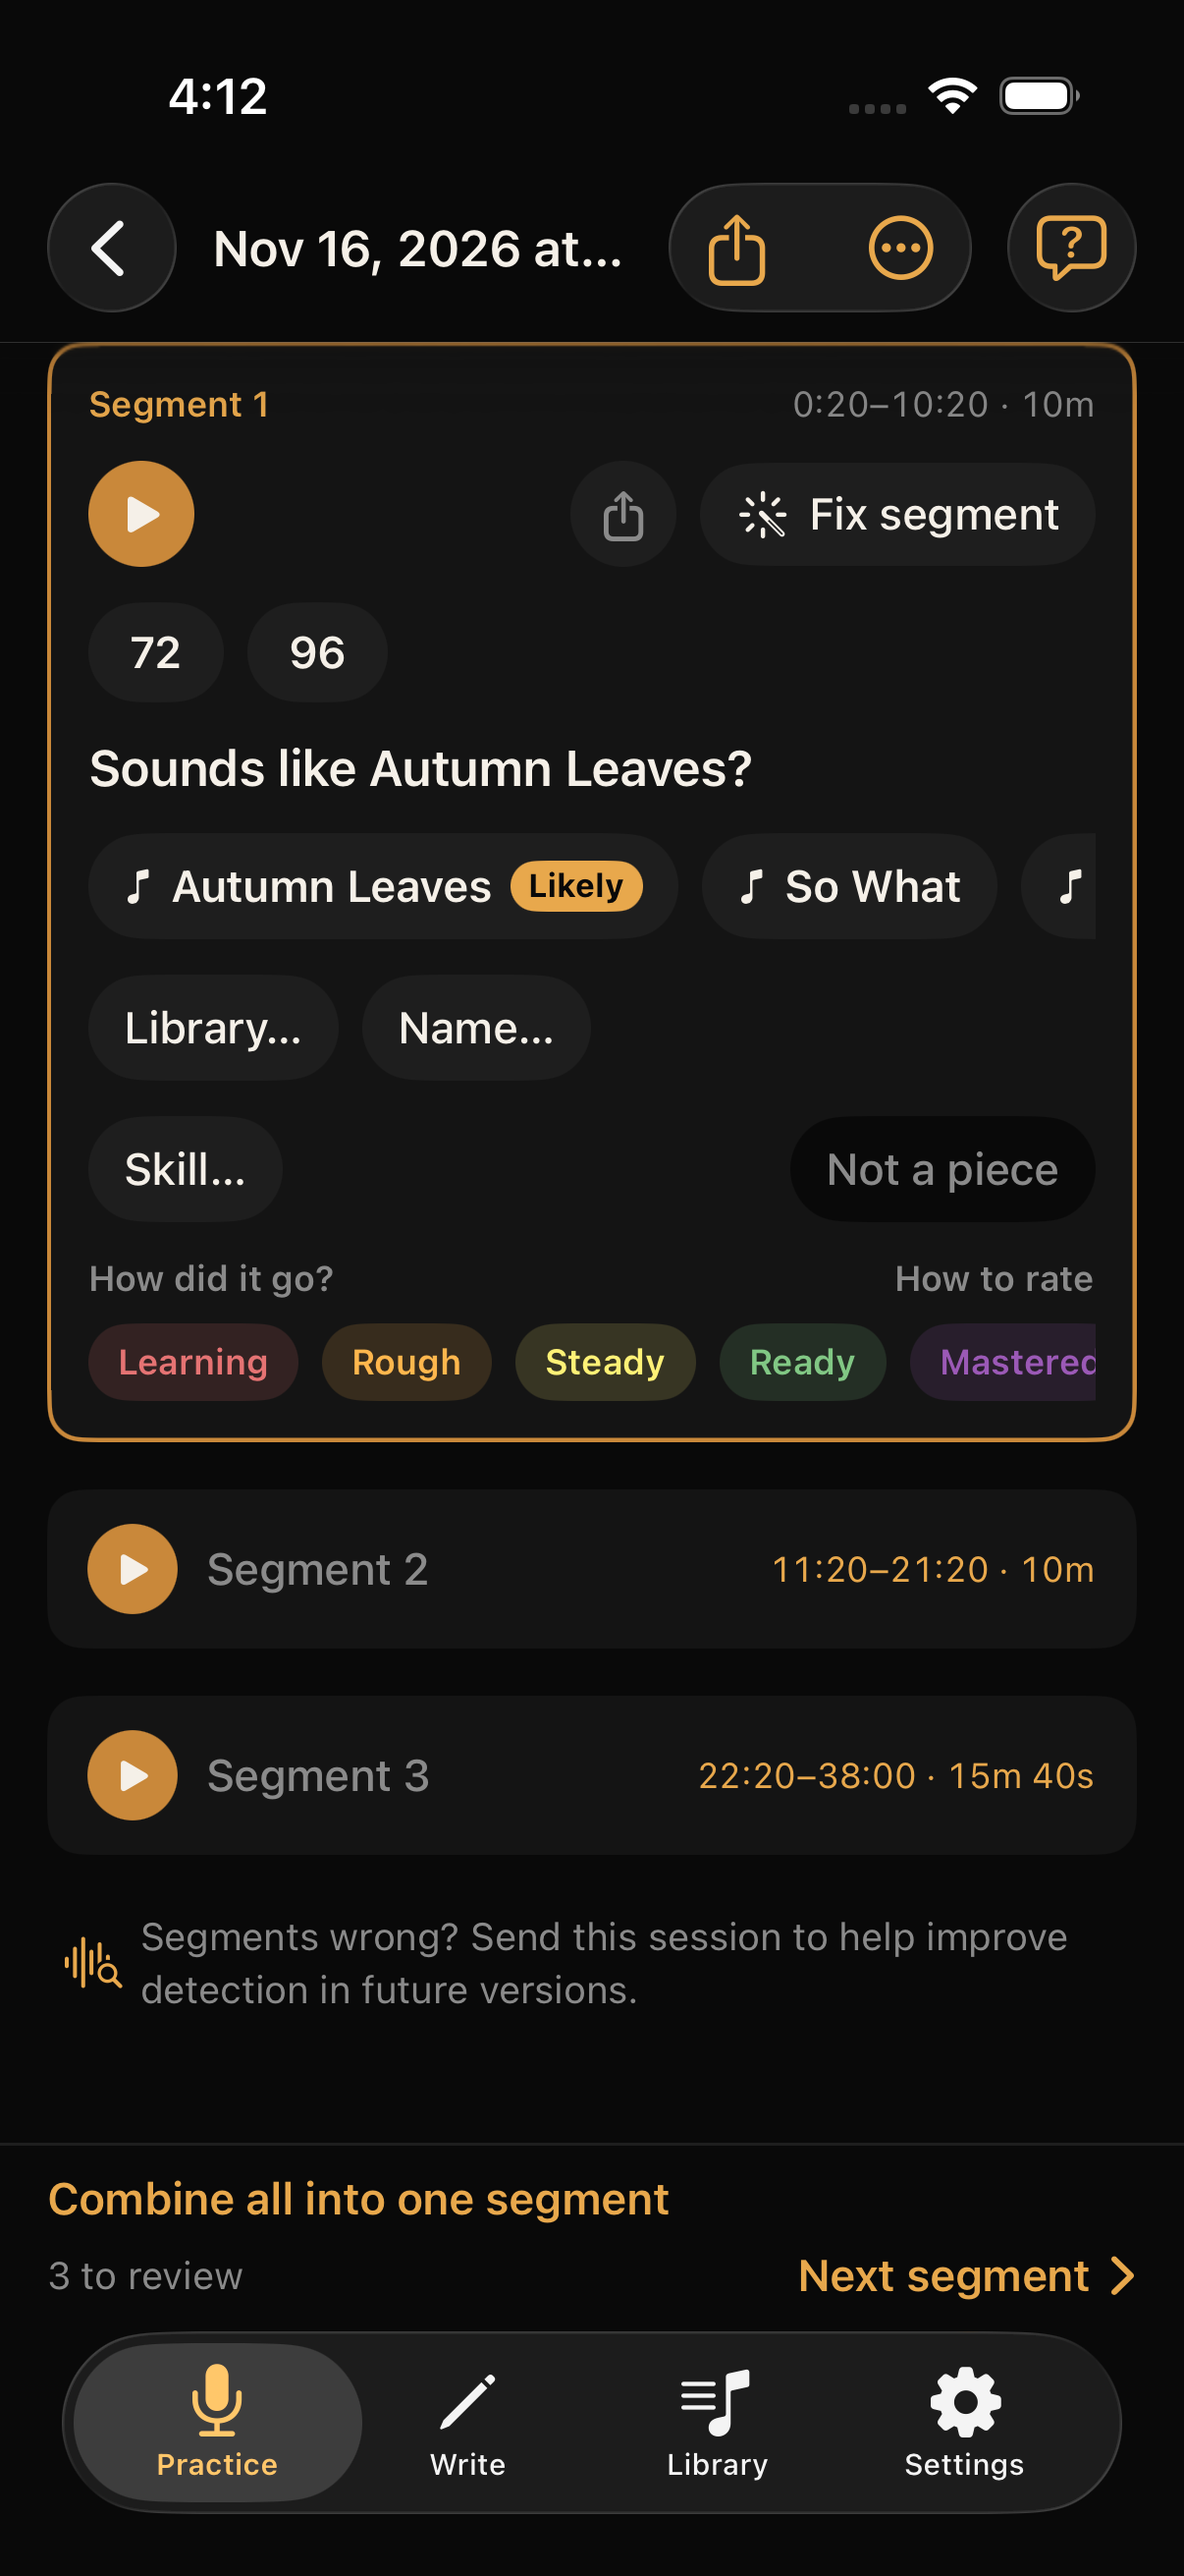
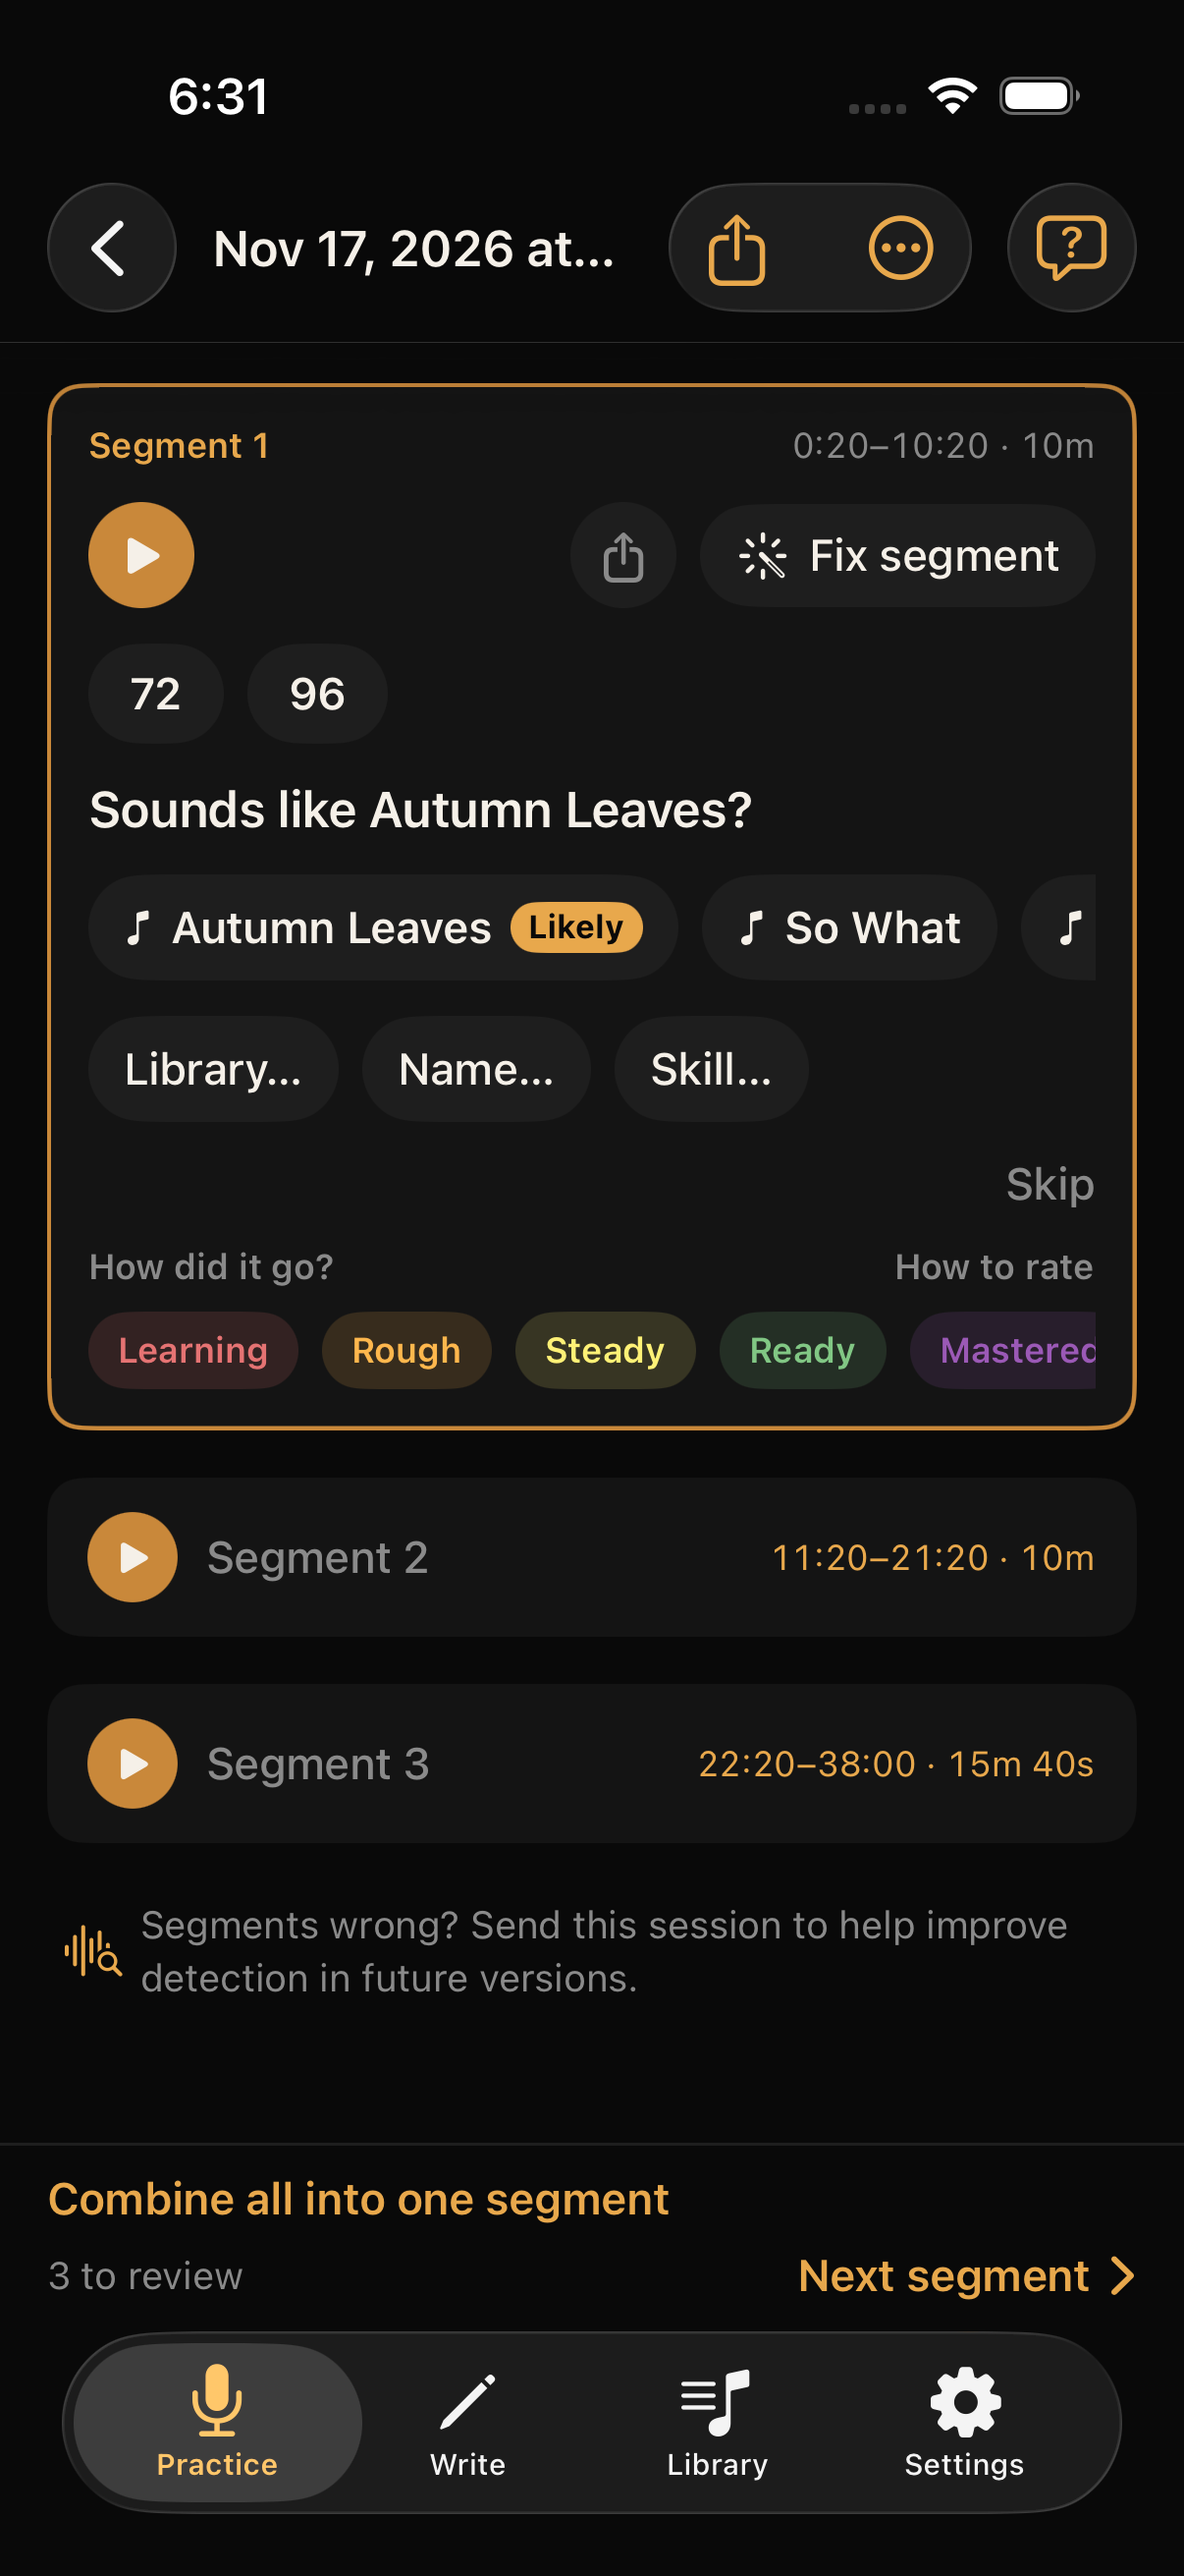
Show Skill and Skip on the session screenshot. (#43)
Scales replaces technique in the review copy, and a scales clip can offer the scale it heard.

diff --git a/index.html b/index.html
@@ -79,7 +79,7 @@
         <article class="beat">
           <div class="beat-copy">
             <h2 class="serif">Woodshed sorts it out.</h2>
-            <p>Woodshed splits your session into segments. Name each piece once. After that, it suggests the match. Rate as you go. When you practiced with a metronome, tap the tempo to hear that stretch. Practice that is not a piece — sightreading, technique, improvisation, ear training, rhythm — files under a skill.</p>
+            <p>Woodshed splits your session into segments. Name each piece once. After that, it suggests the match. Rate as you go. When you practiced with a metronome, tap the tempo to hear that stretch. Practice that is not a piece — sightreading, scales, improvisation, ear training, rhythm — files under a skill. On a scales clip, Woodshed can offer the scale it heard.</p>
             <p class="rating-line" aria-label="Readiness scale">
               <span class="rating learning">Learning</span>
               <span class="rating rough">Rough</span>
